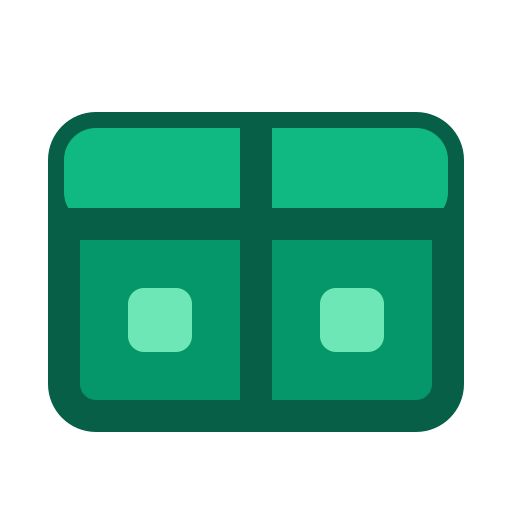
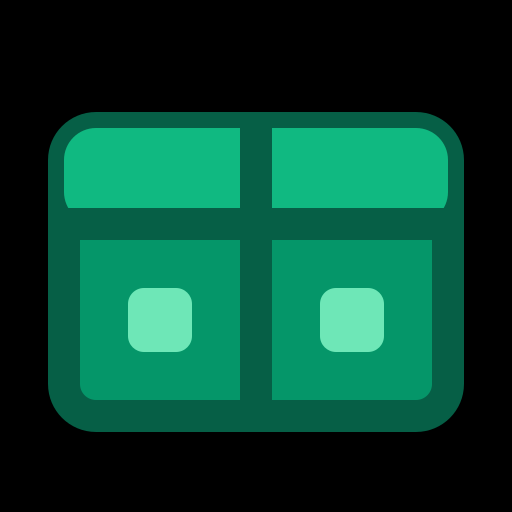
splash screen

diff --git a/src/components/SplashScreen.jsx b/src/components/SplashScreen.jsx
@@ -1,0 +1,35 @@
+import { useEffect, useState } from 'react';
+
+export default function SplashScreen() {
+  const [visible, setVisible] = useState(true);
+
+  useEffect(() => {
+    const timer = setTimeout(() => {
+      setVisible(false);
+    }, 2000); // Show splash screen for 2 seconds
+
+    return () => clearTimeout(timer);
+  }, []);
+
+  if (!visible) return null;
+
+  return (
+    <div className="fixed inset-0 z-50 flex flex-col items-center justify-center bg-gradient-to-br from-emerald-600 to-emerald-800">
+      <div className="mb-8">
+        <svg width="120" height="120" viewBox="0 0 32 32" className="text-white">
+          <rect x="4" y="8" width="24" height="18" rx="2" fill="#10B981" stroke="#ffffff" strokeWidth="2"/>
+          <rect x="4" y="8" width="24" height="6" rx="2" fill="#34D399"/>
+          <line x1="16" y1="8" x2="16" y2="26" stroke="#ffffff" strokeWidth="2"/>
+          <line x1="4" y1="14" x2="28" y2="14" stroke="#ffffff" strokeWidth="2"/>
+          <rect x="8" y="18" width="4" height="4" rx="1" fill="#6EE7B7"/>
+          <rect x="20" y="18" width="4" height="4" rx="1" fill="#6EE7B7"/>
+        </svg>
+      </div>
+      <h1 className="text-3xl font-bold text-white mb-2">Po'o Inventory</h1>
+      <p className="text-emerald-200 text-lg">Multi-Inventory Management System</p>
+      <div className="mt-8">
+        <div className="w-12 h-12 border-4 border-emerald-300 border-t-white rounded-full animate-spin"></div>
+      </div>
+    </div>
+  );
+}

diff --git a/scripts/generate-icons.js b/scripts/generate-icons.js
@@ -16,12 +16,20 @@ const sizes = [
   { size: 180, name: 'apple-touch-icon.png' }
 ];
 
+const splashSizes = [
+  { size: 640, name: 'splash-640x1136.png' },
+  { size: 750, name: 'splash-750x1334.png' },
+  { size: 1242, name: 'splash-1242x2208.png' },
+  { size: 1125, name: 'splash-1125x2436.png' }
+];
+
 async function generateIcons() {
   const svgBuffer = fs.readFileSync(svgPath);
   
   for (const { size, name } of sizes) {
     await sharp(svgBuffer)
       .resize(size, size)
+      .flatten({ background: { r: 0, g: 0, b: 0, alpha: 0 } })
       .png()
       .toFile(path.join(outputDir, name));
     console.log(`Generated ${name}`);
@@ -30,4 +38,25 @@ async function generateIcons() {
   console.log('All icons generated successfully!');
 }
 
-generateIcons().catch(console.error);
+async function generateSplashScreens() {
+  const splashSvgPath = path.resolve(__dirname, '../public/splash.svg');
+  const splashSvgBuffer = fs.readFileSync(splashSvgPath);
+  
+  for (const { size, name } of splashSizes) {
+    const height = Math.round(size * (16/9)); // 16:9 aspect ratio
+    await sharp(splashSvgBuffer)
+      .resize(size, height)
+      .png()
+      .toFile(path.join(outputDir, name));
+    console.log(`Generated ${name}`);
+  }
+  
+  console.log('All splash screens generated successfully!');
+}
+
+async function generateAll() {
+  await generateIcons();
+  await generateSplashScreens();
+}
+
+generateAll().catch(console.error);

diff --git a/vite.config.js b/vite.config.js
@@ -11,10 +11,10 @@ export default defineConfig({
       devOptions: {
         enabled: true
       },
-      includeAssets: ["favicon.svg", "icon-192x192.png", "icon-512x512.png", "apple-touch-icon.png", "assets/noImage.jpeg"],
+      includeAssets: ["favicon.svg", "icon-192x192.png", "icon-512x512.png", "apple-touch-icon.png", "splash-640x1136.png", "splash-750x1334.png", "splash-1242x2208.png", "splash-1125x2436.png", "assets/noImage.jpeg"],
       manifest: {
         name: "Po'o Inventory",
-        short_name: "Inventory",
+        short_name: "Po'o Inventory",
         description: "Multi-Inventory Management System",
         theme_color: "#059669",
         background_color: "#ffffff",
@@ -34,6 +34,28 @@ export default defineConfig({
             sizes: "512x512",
             type: "image/png",
             purpose: "any maskable"
+          }
+        ],
+        splashscreens: [
+          {
+            src: "splash-640x1136.png",
+            sizes: "640x1136",
+            type: "image/png"
+          },
+          {
+            src: "splash-750x1334.png",
+            sizes: "750x1334",
+            type: "image/png"
+          },
+          {
+            src: "splash-1242x2208.png",
+            sizes: "1242x2208",
+            type: "image/png"
+          },
+          {
+            src: "splash-1125x2436.png",
+            sizes: "1125x2436",
+            type: "image/png"
           }
         ]
       },

diff --git a/src/App.jsx b/src/App.jsx
@@ -9,6 +9,7 @@ import { useState, lazy, Suspense } from "react";
 import ErrorBoundary from "./utils/ErrorBoundary";
 import MainLayout from "./components/mainLayout/layout";
 import PWAInstallPrompt from "./components/PWAInstallPrompt";
+import SplashScreen from "./components/SplashScreen";
 
 // ── Eagerly loaded (critical path) ───────────────────────────────────────────
 import LoginPage from "./pages/Login";
@@ -117,6 +118,7 @@ function App() {
 
   return (
     <ErrorBoundary>
+      <SplashScreen />
       <PWAInstallPrompt />
       <Routes>
         <Route path="/login" element={<LoginPage />} />